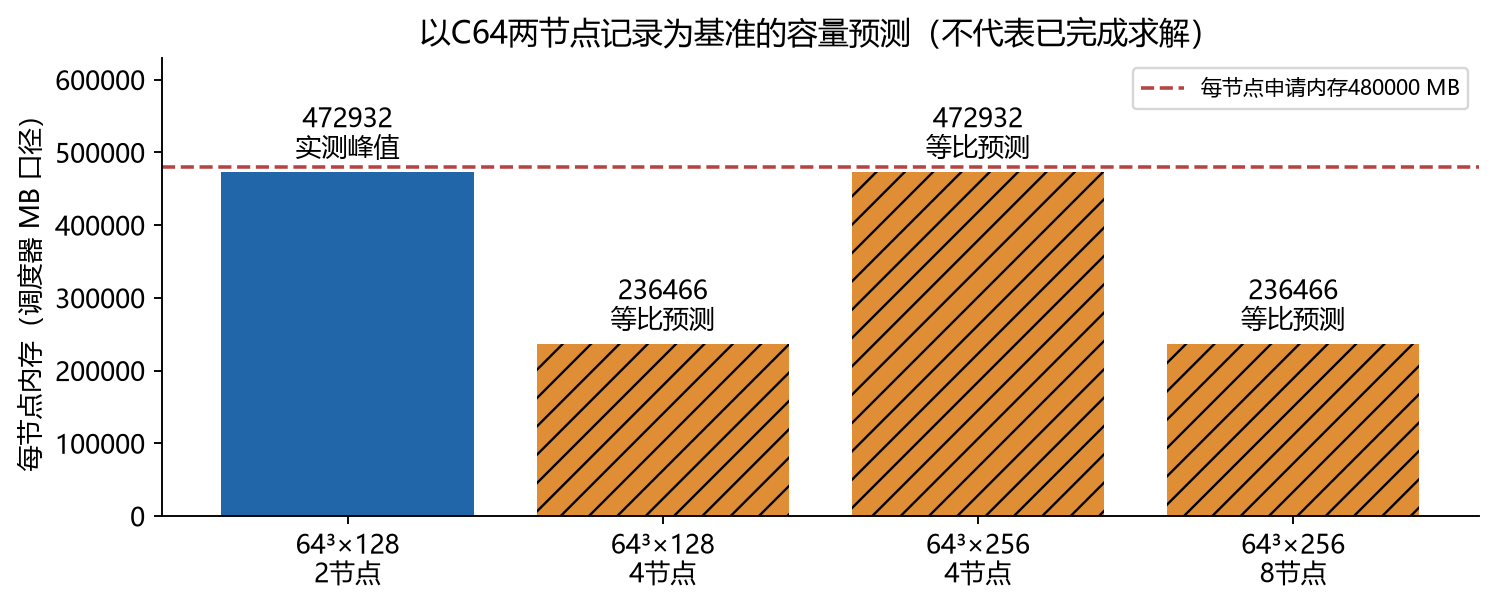
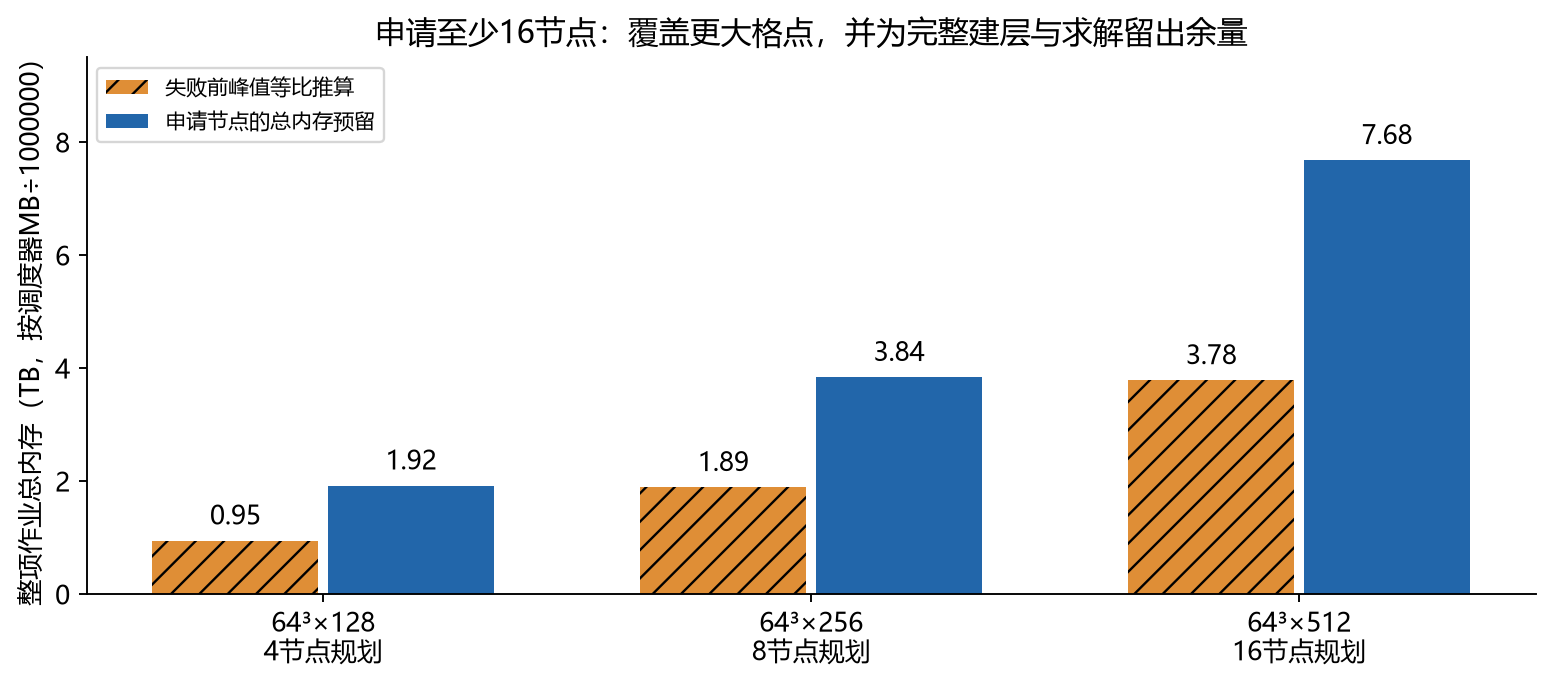
Explain total MG memory and plan a sixteen-node scaling allocation

diff --git a/docs/灵晟测试报告.md b/docs/灵晟测试报告.md
@@ -21,6 +21,7 @@ GitHub：[**WanbaoLi/multigrid.cpp**](https://github.com/WanbaoLi/multigrid.cpp)
 | 完成64³×128多节点建层及预热后1列、12列求解验证 | 未完成 |
 | 通过跨向量复用halo页进一步降低内存峰值（已有实验实现，尚未验证） | 未完成 |
 | 生成规范场：开发并验证生产用LQCD规范场生成流程 | 未完成 |
+| 完成4—16节点大格点适配、精度验证及扩展性测试 | 未完成 |
 
 ## 2. 当前性能与精度
 
@@ -48,18 +49,26 @@ GitHub：[**WanbaoLi/multigrid.cpp**](https://github.com/WanbaoLi/multigrid.cpp)
 
 ## 4. 大格点内存与资源申请
 
-![格点与输出容量增长](https://raw.githubusercontent.com/WanbaoLi/multigrid.cpp/develop/docs/assets/lingsheng-report/volume.png)
+**72 GiB只是64³×128的最终12列传播子输出，不是程序运行所需总内存。** 多重网格在产生输出之前，就需要保存规范场、Clover、粗化basis、24个建层向量、粗算子及大量halo；求解阶段还需要Krylov方向/图像缓存和输出转换缓冲区。
 
-64³×128的格点总量是24³×64的约37.9倍。仅FP64的12列传播子输出就需全局72 GiB；此外还需要规范场、Clover、粗化basis、24个建层向量、Krylov缓存和MPI边界区。传输的薄面元素少，不等于其分块布局触及的驻留页少。
+![输出与建层总内存对比](https://raw.githubusercontent.com/WanbaoLi/multigrid.cpp/develop/docs/assets/lingsheng-report/volume.png)
 
-**C64两节点实测：** 已完成读取、smear、规范场装载和首轮24个建层向量；调度器单节点峰值记录为472932 MB，接近申请的480000 MB。随后远端MPI daemon失联，建层未完成；日志未直接确认内核OOM，故只能判断内存余量不足、内存压力可疑。**尚无有效C64单列或12列求解时间。**
+图中建层预算按当前两节点布局计算：含halo的压缩FP64 basis约432 GiB，24个建层向量约216 GiB，规范场/Clover约99 GiB，FP32系数等约126 GiB，**主要数据已约873 GiB全局合计**。这些是代码布局预算，不是逐项实测；尚未覆盖全部临时缓存。最终输出72 GiB属于另一阶段，不能与建层预算简单相加。分块halo虽然只传输薄面，却可能触及整个邻接聚合块的内存页；每个MPI还保留私有工作区，因此占用远大于一个传播子数组。
 
-容量预测采用：**预计每节点内存＝已测每节点内存×新旧格点总量之比×原节点数/新节点数**。它只作资源规划；实际halo、分块、缓存和建层峰值会改变比例。
+**此前并非每节点只申请64 GB总内存：作业记录是每节点480000 MB。** 单节点可靠峰值达到472932 MB，随后远端MPI daemon失联，失败发生在建层阶段，还没有完整传播子输出。日志没有直接确认内核OOM，不能写成已确证OOM，但已证明72 GiB不能作为运行内存预算。若“每节点64 GB”指HBM，那是高速内存层口径，不能等同全部可调度内存；该HBM容量尚需官方确认。**C64目前没有有效的单列/12列求解时间。**
 
-![多节点内存预测](https://raw.githubusercontent.com/WanbaoLi/multigrid.cpp/develop/docs/assets/lingsheng-report/memory.png)
+总内存规划以“2×单节点可靠峰值”约945864 MB作为两节点对称布局的基线，再按格点总量放大：**预计作业总内存＝基线总内存×新旧格点总量之比**。两节点同时总峰值未可靠记录，因此945864 MB是估算，不是实测总峰值；且原任务尚未完成，该基线不能作为完整求解的上限。分块、halo和缓存变化还会改变比例，必须保留余量。
 
-**本次申请：4个整节点，每节点16 MPI、每MPI 32线程；每节点预留480000 MB内存，首轮墙钟4小时。** 对应64 MPI、2048个计算线程，整节点计费CPU配额约2432（当前限制1216）。采用时间拓扑1×1×1×64、本地格点64³×2、聚合块8×8×8×2。当前均匀时间切分下，3节点的48 MPI不能整除时间长度128，下一档可行配置为4节点。
+![整项作业总内存规划](https://raw.githubusercontent.com/WanbaoLi/multigrid.cpp/develop/docs/assets/lingsheng-report/memory.png)
 
-申请目标：完成64³×128的建层与独立精度验证，测量预热后1列和12列纯求解时间、真实内存峰值，并验证HBW驻留及高性能互连效果。四节点结果尚未实测；进一步降低内存的实验也未作为验收结果。
+| 规划格点 | 相对64³×128体积 | 失败前峰值等比推算的作业总内存 | 节点规划及总内存预留 |
+|---|---:|---:|---:|
+| 64³×128 | 1倍 | 约0.95 TB | 4节点，1.92 TB |
+| 64³×256 | 2倍 | 约1.89 TB | 8节点，3.84 TB |
+| 64³×512 | 4倍 | 约3.78 TB | 16节点，7.68 TB |
+
+表中TB统一按调度器MB÷10⁶表示，仅作规划；后两种格点需准备对应真实组态。**本次申请至少16个整节点**，分阶段完成4、8、16节点的大格点与弱扩展测试，并在内存允许的同一格点上开展强扩展测试。每节点保持16 MPI、每MPI 32线程；16节点共256 MPI、8192计算线程，每节点预留480000 MB内存，首轮每项作业墙钟4小时。整节点计费CPU配额需至少约9728，当前限制1216。
+
+16节点申请服务于更大格点容量、通信/HBW调优及扩展性验证，不表示已证明64³×128必须使用16节点。当前均匀时间切分与本地时间长度为偶数的约束下，上表4/8/16节点分别可取本地64³×2；64³×128直接使用16节点不满足现有切分条件，需另行开发空间方向MPI分解或调整布局。所有新增规模均须先通过独立真残差≤10⁻⁸验证，再报告预热后1列和12列纯求解性能。
 
 数据依据：[单节点验收](https://github.com/WanbaoLi/multigrid.cpp/blob/b182d74/docs/single-node-health-20261113.md)、[多节点实验记录](https://github.com/WanbaoLi/multigrid.cpp/blob/b182d74/experiments/distributed-C64-20261114/README.md)。单节点测量版本`efe57de`，C64尝试版本`88e8bbe`；未验证halo页实验位于`codex/c64-halo-pages`。
